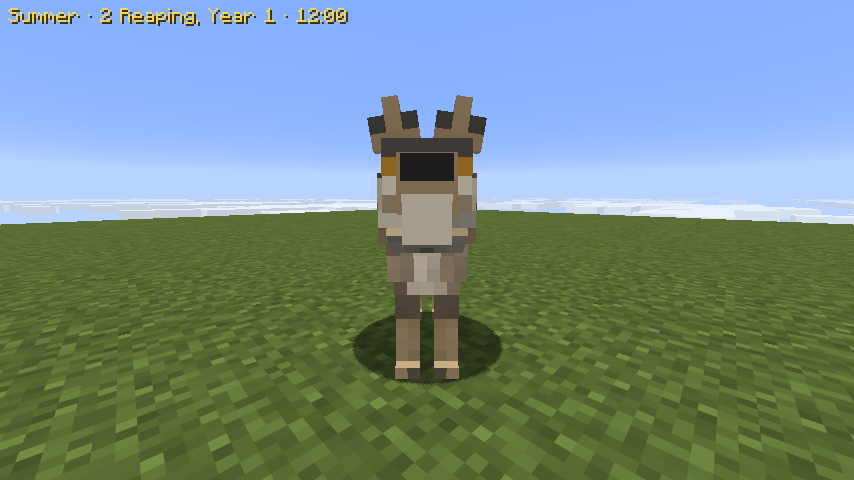
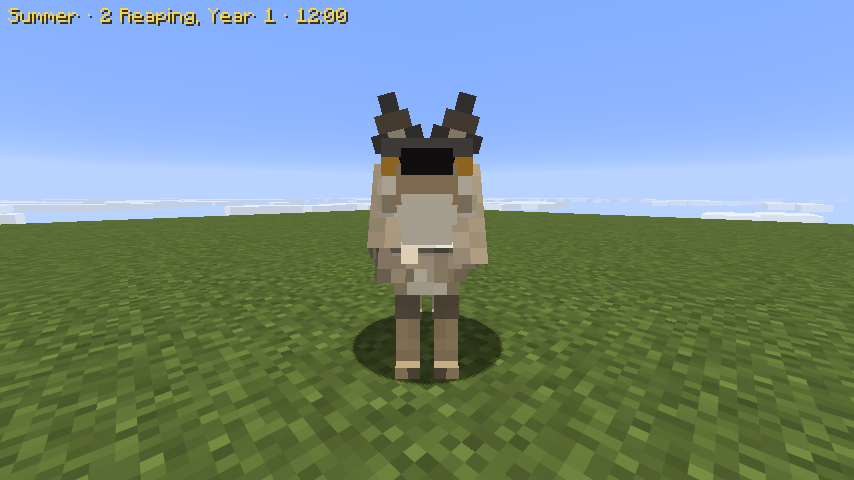
Grey wolf: one solid triangular ear each, the nose flush on the muzzle tip, a big throat ruff
- Ears: three stacked rows (3, 2, 1 wide) tilted out and forward, dark edges and tip, pale inside; the cut-corner
  rims that read as a spiky crown are gone.
- Nose 2x1 sitting on top of the muzzle tip (black in front, the bridge colour on top); lower muzzle and chin pale;
  the snout's top lowered so the eyes show at the sides of the brow.
- A ragged ruff round the throat and chest.

diff --git a/src/main/java/com/mechanical/client/wildlife/PredGeometry.java b/src/main/java/com/mechanical/client/wildlife/PredGeometry.java
@@ -9,72 +9,77 @@ import net.minecraft.client.model.geom.builders.PartDefinition;
 /** GENERATED by scripts/gen_pred_models.py (with the skins it paints for these boxes). Do not edit. */
 @SuppressWarnings("unused")
 final class PredGeometry {
-    /** Grey wolf: 17 parts, 29 boxes, skin 64x64. */
+    /** Grey wolf: 17 parts, 34 boxes, skin 64x64. */
     static LayerDefinition greyWolf() {
         MeshDefinition mesh = new MeshDefinition();
         PartDefinition root = mesh.getRoot();
         PartDefinition body = root.addOrReplaceChild("body", CubeListBuilder.create()
                 .texOffs(0, 0).addBox(-3.0F, -3.5F, -8.0F, 6.0F, 7.0F, 7.0F)
-                .texOffs(0, 33).addBox(-2.5F, 3.5F, -8.0F, 5.0F, 1.0F, 5.0F)
-                .texOffs(0, 14).addBox(-3.5F, -4.5F, -8.5F, 7.0F, 5.0F, 5.0F)
+                .texOffs(20, 35).addBox(-2.5F, 3.5F, -8.0F, 5.0F, 1.0F, 5.0F)
+                .texOffs(36, 14).addBox(-3.5F, -4.5F, -8.5F, 7.0F, 5.0F, 5.0F)
                 .texOffs(26, 0).addBox(-2.5F, -3.0F, -1.0F, 5.0F, 5.0F, 6.0F)
-                .texOffs(24, 14).addBox(-2.5F, -3.5F, 5.0F, 5.0F, 6.0F, 4.0F),
+                .texOffs(0, 25).addBox(-2.5F, -3.5F, 5.0F, 5.0F, 6.0F, 4.0F),
                 PartPose.offset(0.0F, 12.0F, 0.0F));
         PartDefinition neck = body.addOrReplaceChild("neck", CubeListBuilder.create()
-                .texOffs(42, 14).addBox(-2.5F, -3.0F, -3.0F, 5.0F, 6.0F, 3.0F),
+                .texOffs(18, 25).addBox(-2.5F, -3.0F, -3.0F, 5.0F, 6.0F, 3.0F)
+                .texOffs(0, 14).addBox(-3.5F, -2.0F, -3.5F, 7.0F, 7.0F, 4.0F),
                 PartPose.offsetAndRotation(0.0F, -1.5F, -7.5F, -0.55F, 0.0F, 0.0F));
         PartDefinition head = body.addOrReplaceChild("head", CubeListBuilder.create()
-                .texOffs(10, 24).addBox(-2.5F, -3.0F, -3.5F, 5.0F, 4.0F, 4.0F)
-                .texOffs(28, 33).addBox(-3.0F, -1.0F, -2.0F, 6.0F, 3.0F, 2.0F)
-                .texOffs(44, 33).addBox(-1.5F, -2.0F, -5.5F, 3.0F, 3.0F, 2.0F)
-                .texOffs(54, 33).addBox(-1.0F, -1.0F, -8.5F, 2.0F, 2.0F, 3.0F)
-                .texOffs(54, 39).addBox(-1.0F, -1.5F, -9.0F, 2.0F, 1.0F, 1.0F),
+                .texOffs(44, 25).addBox(-2.5F, -3.0F, -3.5F, 5.0F, 4.0F, 4.0F)
+                .texOffs(48, 35).addBox(-3.0F, -1.0F, -2.0F, 6.0F, 3.0F, 2.0F)
+                .texOffs(0, 42).addBox(-1.5F, -1.5F, -5.5F, 3.0F, 3.0F, 2.0F)
+                .texOffs(10, 42).addBox(-1.0F, -1.0F, -8.5F, 2.0F, 2.0F, 3.0F)
+                .texOffs(18, 47).addBox(-1.0F, -1.75F, -8.5F, 2.0F, 1.0F, 1.0F),
                 PartPose.offset(0.0F, -3.0F, -9.5F));
         PartDefinition jaw = head.addOrReplaceChild("jaw", CubeListBuilder.create()
-                .texOffs(16, 39).addBox(-1.0F, 0.0F, -3.0F, 2.0F, 1.0F, 3.0F),
+                .texOffs(36, 42).addBox(-1.0F, 0.0F, -3.0F, 2.0F, 1.0F, 3.0F),
                 PartPose.offset(0.0F, 1.0F, -5.5F));
         PartDefinition right_ear = head.addOrReplaceChild("right_ear", CubeListBuilder.create()
-                .texOffs(46, 39).addBox(-1.5F, -3.0F, -0.5F, 3.0F, 3.0F, 1.0F),
-                PartPose.offsetAndRotation(-1.8F, -2.8F, -1.0F, 0.0F, 0.0F, -0.15F));
+                .texOffs(10, 47).addBox(-1.5F, -1.0F, -0.5F, 3.0F, 1.0F, 1.0F)
+                .texOffs(24, 47).addBox(-1.0F, -2.0F, -0.5F, 2.0F, 1.0F, 1.0F)
+                .texOffs(30, 47).addBox(-0.5F, -3.0F, -0.5F, 1.0F, 1.0F, 1.0F),
+                PartPose.offsetAndRotation(-1.6F, -2.8F, -1.5F, 0.15F, 0.0F, -0.25F));
         PartDefinition left_ear = head.addOrReplaceChild("left_ear", CubeListBuilder.create()
-                .texOffs(46, 39).mirror().addBox(-1.5F, -3.0F, -0.5F, 3.0F, 3.0F, 1.0F).mirror(false),
-                PartPose.offsetAndRotation(1.8F, -2.8F, -1.0F, 0.0F, 0.0F, 0.15F));
+                .texOffs(10, 47).mirror().addBox(-1.5F, -1.0F, -0.5F, 3.0F, 1.0F, 1.0F).mirror(false)
+                .texOffs(24, 47).mirror().addBox(-1.0F, -2.0F, -0.5F, 2.0F, 1.0F, 1.0F).mirror(false)
+                .texOffs(30, 47).mirror().addBox(-0.5F, -3.0F, -0.5F, 1.0F, 1.0F, 1.0F).mirror(false),
+                PartPose.offsetAndRotation(1.6F, -2.8F, -1.5F, 0.15F, 0.0F, 0.25F));
         PartDefinition tail = body.addOrReplaceChild("tail", CubeListBuilder.create()
-                .texOffs(0, 39).addBox(-1.0F, 0.0F, -1.0F, 2.0F, 3.0F, 2.0F),
+                .texOffs(20, 42).addBox(-1.0F, 0.0F, -1.0F, 2.0F, 3.0F, 2.0F),
                 PartPose.offsetAndRotation(0.0F, -2.5F, 8.5F, 0.75F, 0.0F, 0.0F));
         PartDefinition tail_mid = tail.addOrReplaceChild("tail_mid", CubeListBuilder.create()
-                .texOffs(28, 24).addBox(-1.5F, 0.0F, -1.5F, 3.0F, 4.0F, 3.0F),
+                .texOffs(0, 35).addBox(-1.5F, 0.0F, -1.5F, 3.0F, 4.0F, 3.0F),
                 PartPose.offsetAndRotation(0.0F, 2.5F, 0.0F, 0.12F, 0.0F, 0.0F));
         PartDefinition tail_tip = tail_mid.addOrReplaceChild("tail_tip", CubeListBuilder.create()
-                .texOffs(8, 39).addBox(-1.0F, 0.0F, -1.0F, 2.0F, 3.0F, 2.0F),
+                .texOffs(28, 42).addBox(-1.0F, 0.0F, -1.0F, 2.0F, 3.0F, 2.0F),
                 PartPose.offsetAndRotation(0.0F, 3.5F, 0.0F, 0.1F, 0.0F, 0.0F));
         PartDefinition right_front_leg = root.addOrReplaceChild("right_front_leg", CubeListBuilder.create()
-                .texOffs(0, 24).addBox(-1.0F, -1.0F, -1.5F, 2.0F, 6.0F, 3.0F),
+                .texOffs(34, 25).addBox(-1.0F, -1.0F, -1.5F, 2.0F, 6.0F, 3.0F),
                 PartPose.offset(-1.6F, 14.0F, -5.0F));
         PartDefinition right_front_lower = right_front_leg.addOrReplaceChild("lower", CubeListBuilder.create()
-                .texOffs(20, 33).addBox(-1.0F, 0.0F, -1.0F, 2.0F, 4.0F, 2.0F)
-                .texOffs(26, 39).addBox(-1.0F, 4.0F, -2.0F, 2.0F, 1.0F, 3.0F),
+                .texOffs(40, 35).addBox(-1.0F, 0.0F, -1.0F, 2.0F, 4.0F, 2.0F)
+                .texOffs(46, 42).addBox(-1.0F, 4.0F, -2.0F, 2.0F, 1.0F, 3.0F),
                 PartPose.offset(0.0F, 5.0F, 0.0F));
         PartDefinition left_front_leg = root.addOrReplaceChild("left_front_leg", CubeListBuilder.create()
-                .texOffs(0, 24).mirror().addBox(-1.0F, -1.0F, -1.5F, 2.0F, 6.0F, 3.0F).mirror(false),
+                .texOffs(34, 25).mirror().addBox(-1.0F, -1.0F, -1.5F, 2.0F, 6.0F, 3.0F).mirror(false),
                 PartPose.offset(1.6F, 14.0F, -5.0F));
         PartDefinition left_front_lower = left_front_leg.addOrReplaceChild("lower", CubeListBuilder.create()
-                .texOffs(20, 33).mirror().addBox(-1.0F, 0.0F, -1.0F, 2.0F, 4.0F, 2.0F).mirror(false)
-                .texOffs(26, 39).mirror().addBox(-1.0F, 4.0F, -2.0F, 2.0F, 1.0F, 3.0F).mirror(false),
+                .texOffs(40, 35).mirror().addBox(-1.0F, 0.0F, -1.0F, 2.0F, 4.0F, 2.0F).mirror(false)
+                .texOffs(46, 42).mirror().addBox(-1.0F, 4.0F, -2.0F, 2.0F, 1.0F, 3.0F).mirror(false),
                 PartPose.offset(0.0F, 5.0F, 0.0F));
         PartDefinition right_hind_leg = root.addOrReplaceChild("right_hind_leg", CubeListBuilder.create()
-                .texOffs(48, 0).addBox(-1.5F, -2.0F, -2.0F, 3.0F, 7.0F, 4.0F),
+                .texOffs(22, 14).addBox(-1.5F, -2.0F, -2.0F, 3.0F, 7.0F, 4.0F),
                 PartPose.offset(-1.6F, 13.0F, 6.5F));
         PartDefinition right_hind_lower = right_hind_leg.addOrReplaceChild("lower", CubeListBuilder.create()
-                .texOffs(40, 24).addBox(-1.0F, 0.0F, -1.0F, 2.0F, 5.0F, 2.0F)
-                .texOffs(36, 39).addBox(-1.0F, 5.0F, -2.0F, 2.0F, 1.0F, 3.0F),
+                .texOffs(12, 35).addBox(-1.0F, 0.0F, -1.0F, 2.0F, 5.0F, 2.0F)
+                .texOffs(0, 47).addBox(-1.0F, 5.0F, -2.0F, 2.0F, 1.0F, 3.0F),
                 PartPose.offset(0.0F, 5.0F, 0.5F));
         PartDefinition left_hind_leg = root.addOrReplaceChild("left_hind_leg", CubeListBuilder.create()
-                .texOffs(48, 0).mirror().addBox(-1.5F, -2.0F, -2.0F, 3.0F, 7.0F, 4.0F).mirror(false),
+                .texOffs(22, 14).mirror().addBox(-1.5F, -2.0F, -2.0F, 3.0F, 7.0F, 4.0F).mirror(false),
                 PartPose.offset(1.6F, 13.0F, 6.5F));
         PartDefinition left_hind_lower = left_hind_leg.addOrReplaceChild("lower", CubeListBuilder.create()
-                .texOffs(40, 24).mirror().addBox(-1.0F, 0.0F, -1.0F, 2.0F, 5.0F, 2.0F).mirror(false)
-                .texOffs(36, 39).mirror().addBox(-1.0F, 5.0F, -2.0F, 2.0F, 1.0F, 3.0F).mirror(false),
+                .texOffs(12, 35).mirror().addBox(-1.0F, 0.0F, -1.0F, 2.0F, 5.0F, 2.0F).mirror(false)
+                .texOffs(0, 47).mirror().addBox(-1.0F, 5.0F, -2.0F, 2.0F, 1.0F, 3.0F).mirror(false),
                 PartPose.offset(0.0F, 5.0F, 0.5F));
         return LayerDefinition.create(mesh, 64, 64);
     }

diff --git a/scripts/gen_pred_models.py b/scripts/gen_pred_models.py
@@ -781,25 +781,33 @@ def wolf_colour(m, q):
     if m in ("snout", "muzzle"):
         if q.face == "top":
             return lit(lerp(WO["tawny"], WO["saddle"], 0.5 if m == "snout" else 0.35), q, 6, 24)  # the dark bridge
-        if q.face == "bottom" or (q.y > 0 and q.face != "front") or (m == "muzzle" and q.y > 0):
+        if q.face == "bottom" or q.y > 0:
             return lit(WO["cream"], q, 6, 24)  # pale lips and chin
         return lit(lerp(WO["buff"], WO["tawny"], 0.45), q, 6, 24)
     if m == "nose":
-        return WO["nose"] if not (q.face == "front" and q.j == 0) else lerp(WO["nose"], (80, 76, 74), 0.35)
+        if q.face == "top":
+            return lit(lerp(WO["tawny"], WO["saddle"], 0.55), q, 6, 24)  # the bridge runs on to the tip; the black shows in front
+        return WO["nose"]
     if m == "jaw":
         if q.face == "top":
             return WO["mouth"] if abs(q.x) < 1 else WO["tooth"]
         return lit(WO["cream"], q, 6, 24)
-    if m == "ear":
-        # pointed: the top corners and the top face cut away; grey-brown with dark rims, pale fur inside
-        if q.face == "top" or (q.j == 0 and (q.fw < 3 or q.i in (0, q.fw - 1))):
-            return None
-        rim = q.fw >= 3 and q.i in (0, q.fw - 1) and q.j < q.fh - 1
-        rim_c = lerp(WO["saddle"], WO["grizzle"], 0.3)
+    if m.startswith("ear_"):
+        # grey-brown, the outer edges and the tip dark, pale fur inside the base
+        rim_c = lerp(WO["saddle"], WO["grizzle"], 0.25)
+        if m == "ear_tip":
+            return lit(rim_c, q, 6, 24)
         if q.face == "front":
-            return rim_c if rim else lerp(WO["buff"], WO["tawny"], 0.2 + 0.3 * q.j / max(1, q.fh - 1))
-        c = lerp(WO["grizzle"], WO["tawny"], 0.2 + 0.4 * q.j / max(1, q.fh - 1))
-        return lit(rim_c if rim else c, q, 6, 24)
+            edge = q.i in (0, q.fw - 1)
+            if m == "ear_base":
+                return rim_c if edge else lerp(WO["cream"], WO["buff"], 0.5)
+            return lerp(WO["buff"], WO["tawny"], 0.5) if not edge or q.fw < 2 else lerp(rim_c, WO["tawny"], 0.4)
+        return lit(lerp(WO["grizzle"], WO["tawny"], 0.35 if m == "ear_base" else 0.1), q, 6, 24)
+    if m == "ruff":
+        if ragged(q, 1.5, 102):
+            return None
+        c = lerp(WO["cream"], WO["buff"], 0.3 * h(q.tx, 0, 103)) if q.face == "front" and abs(q.x) < 1.5 else lerp(WO["buff"], WO["grizzle"], 0.45)
+        return lit(agouti(locks(c, q, 104, 0.12, 3), q, 105), q, 6, 24)
     if m.startswith("tail"):
         tip = m == "tail3"
         c = WO["dark"] if tip and q.j >= 1 else (lerp(WO["saddle"], WO["grizzle"], 0.4) if q.n[1] < 0.3 and q.face != "bottom"
@@ -833,17 +841,19 @@ def grey_wolf():
     M.box("body", "hips", -2.5, -3.5, 5, 5, 6, 4)
     M.part("neck", "body", (0, -1.5, -7.5), (-0.55, 0, 0))
     M.box("neck", "neck", -2.5, -3, -3, 5, 6, 3)
+    M.box("neck", "ruff", -3.5, -2, -3.5, 7, 7, 4)
     M.part("head", "body", (0, -3, -9.5))
     M.box("head", "skull", -2.5, -3, -3.5, 5, 4, 4)
     M.box("head", "cheeks", -3, -1, -2, 6, 3, 2)
-    M.box("head", "snout", -1.5, -2, -5.5, 3, 3, 2)  # the muzzle tapers: skull 5, snout 3, muzzle 2 wide
+    M.box("head", "snout", -1.5, -1.5, -5.5, 3, 3, 2)  # the muzzle tapers: skull 5, snout 3, muzzle 2 wide
     M.box("head", "muzzle", -1, -1, -8.5, 2, 2, 3)
-    M.box("head", "nose", -1, -1.5, -9, 2, 1, 1)
+    M.box("head", "nose", -1, -1.75, -8.5, 2, 1, 1)  # flush with the muzzle tip, sitting on top of it
     M.part("jaw", "head", (0, 1, -5.5))
     M.box("jaw", "jaw", -1, 0, -3, 2, 1, 3)
     for s, sign in (("right", -1), ("left", 1)):
-        M.part(f"{s}_ear", "head", (sign * 1.8, -2.8, -1), (0, 0, 0.15 * sign))
-        M.limb(f"{s}_ear", sign, (-1.5, -3, -0.5, 3, 3, 1), mat="ear")
+        M.part(f"{s}_ear", "head", (sign * 1.6, -2.8, -1.5), (0.15, 0, 0.25 * sign))
+        M.limb(f"{s}_ear", sign, (-1.5, -1, -0.5, 3, 1, 1), (-1, -2, -0.5, 2, 1, 1), (-0.5, -3, -0.5, 1, 1, 1),
+               mat=["ear_base", "ear_mid", "ear_tip"])
     M.part("tail", "body", (0, -2.5, 8.5), (0.75, 0, 0))
     M.box("tail", "tail1", -1, 0, -1, 2, 3, 2)
     M.part("tail_mid", "tail", (0, 2.5, 0), (0.12, 0, 0))
